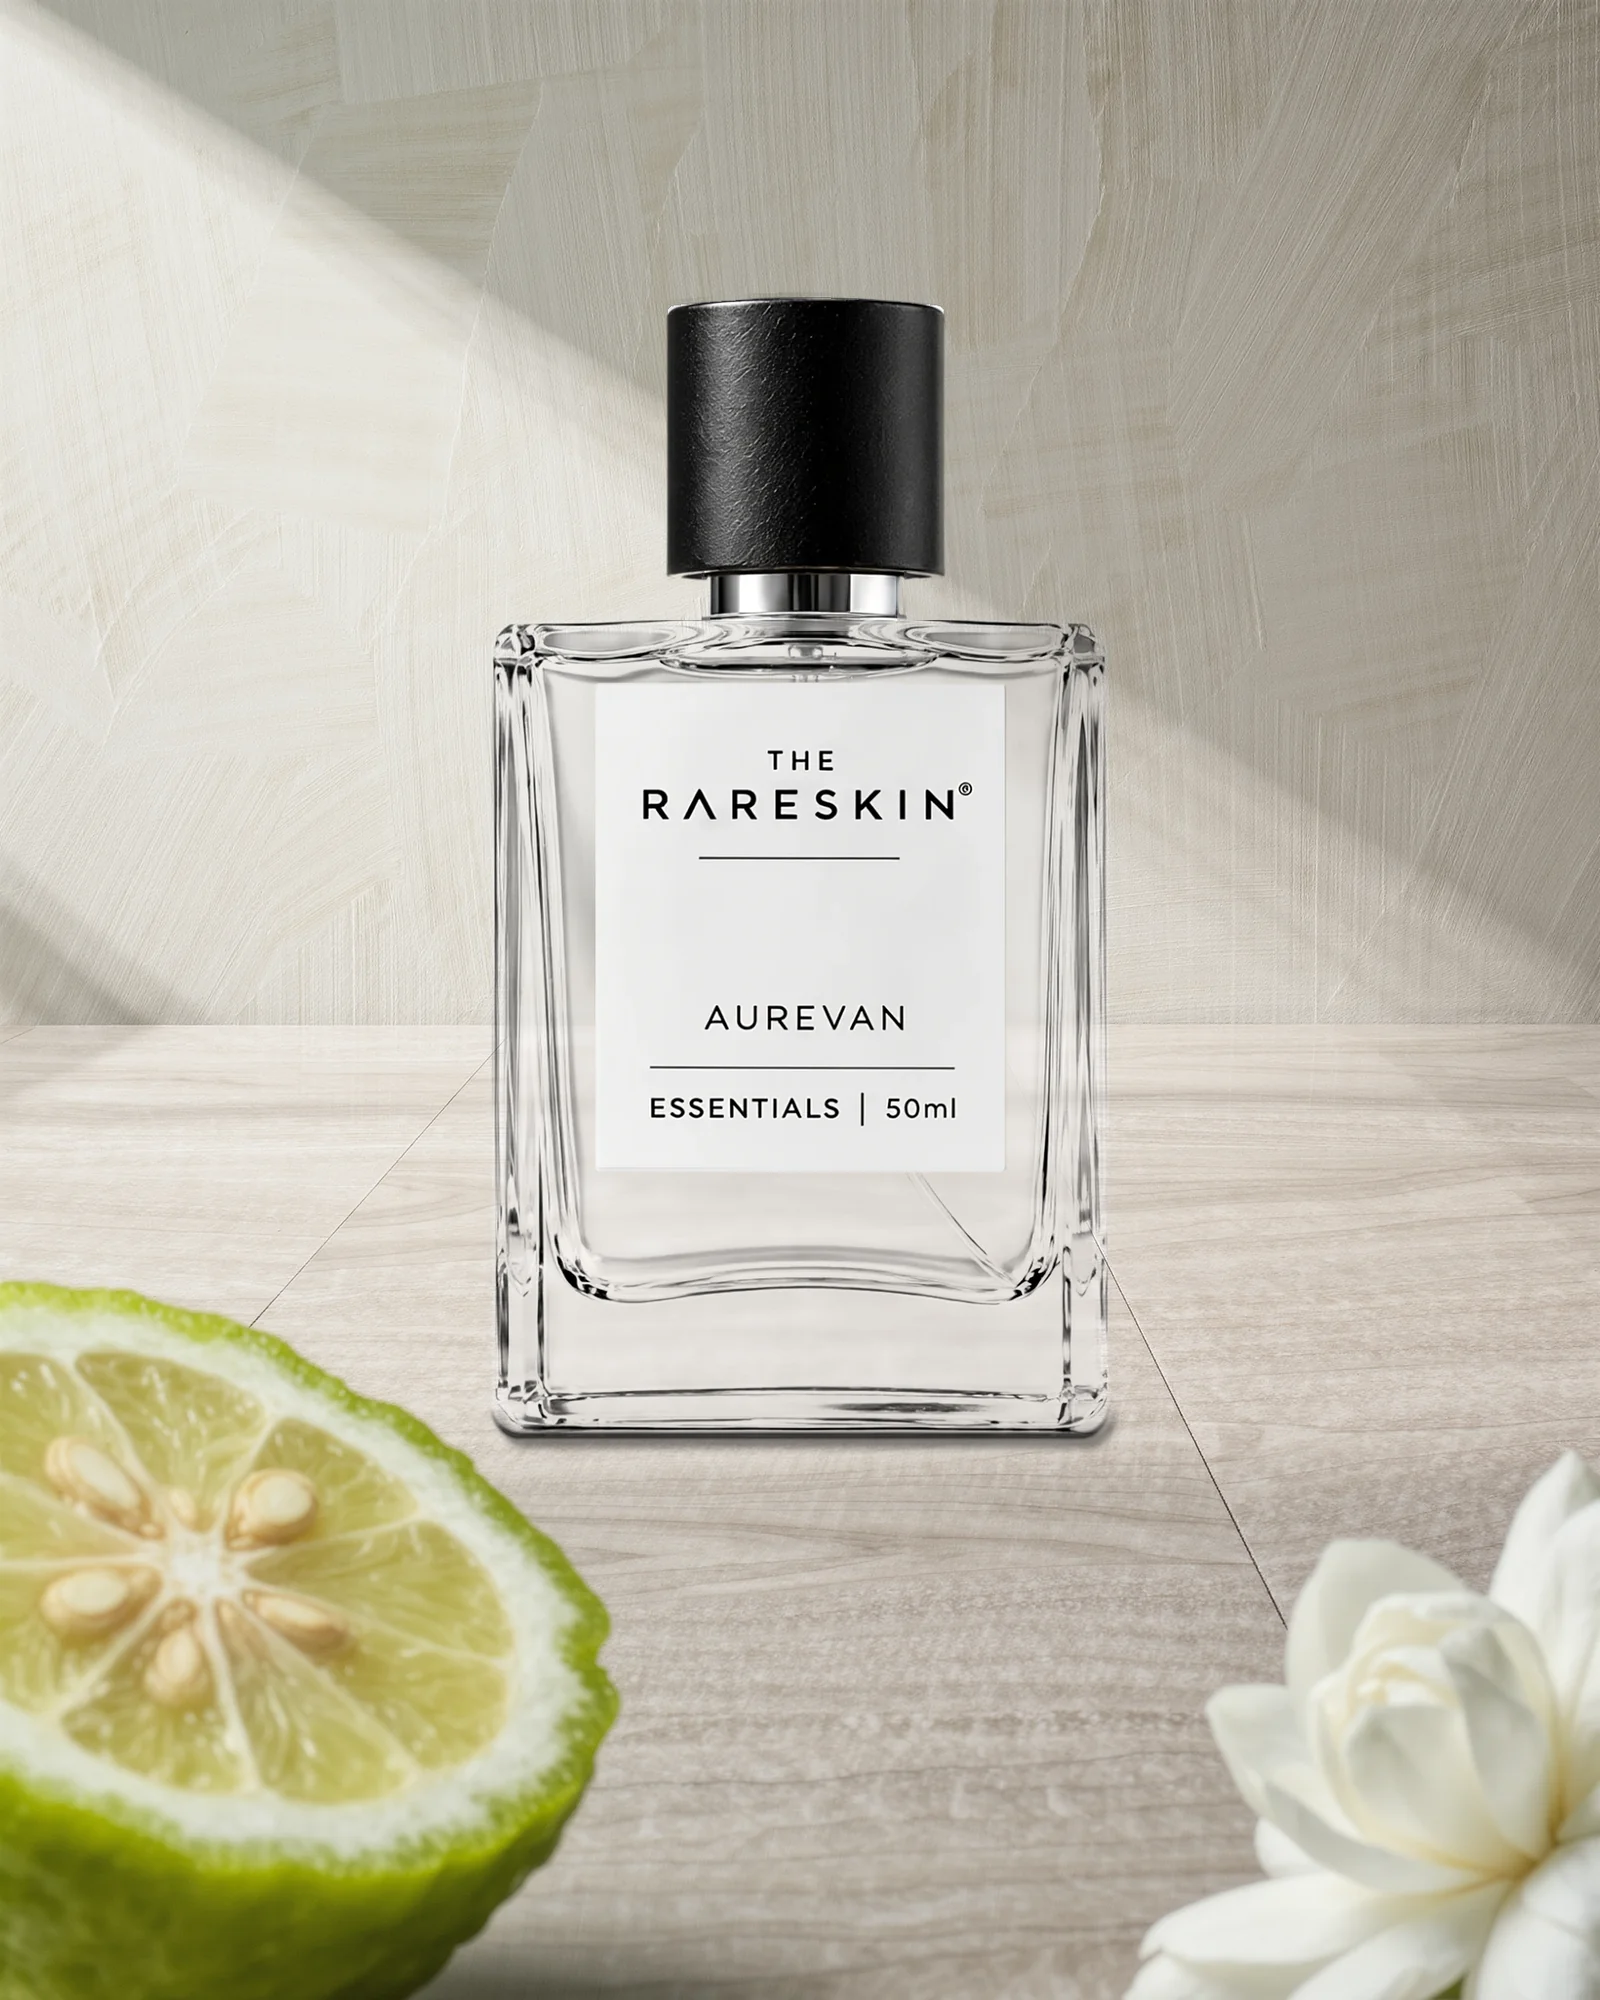
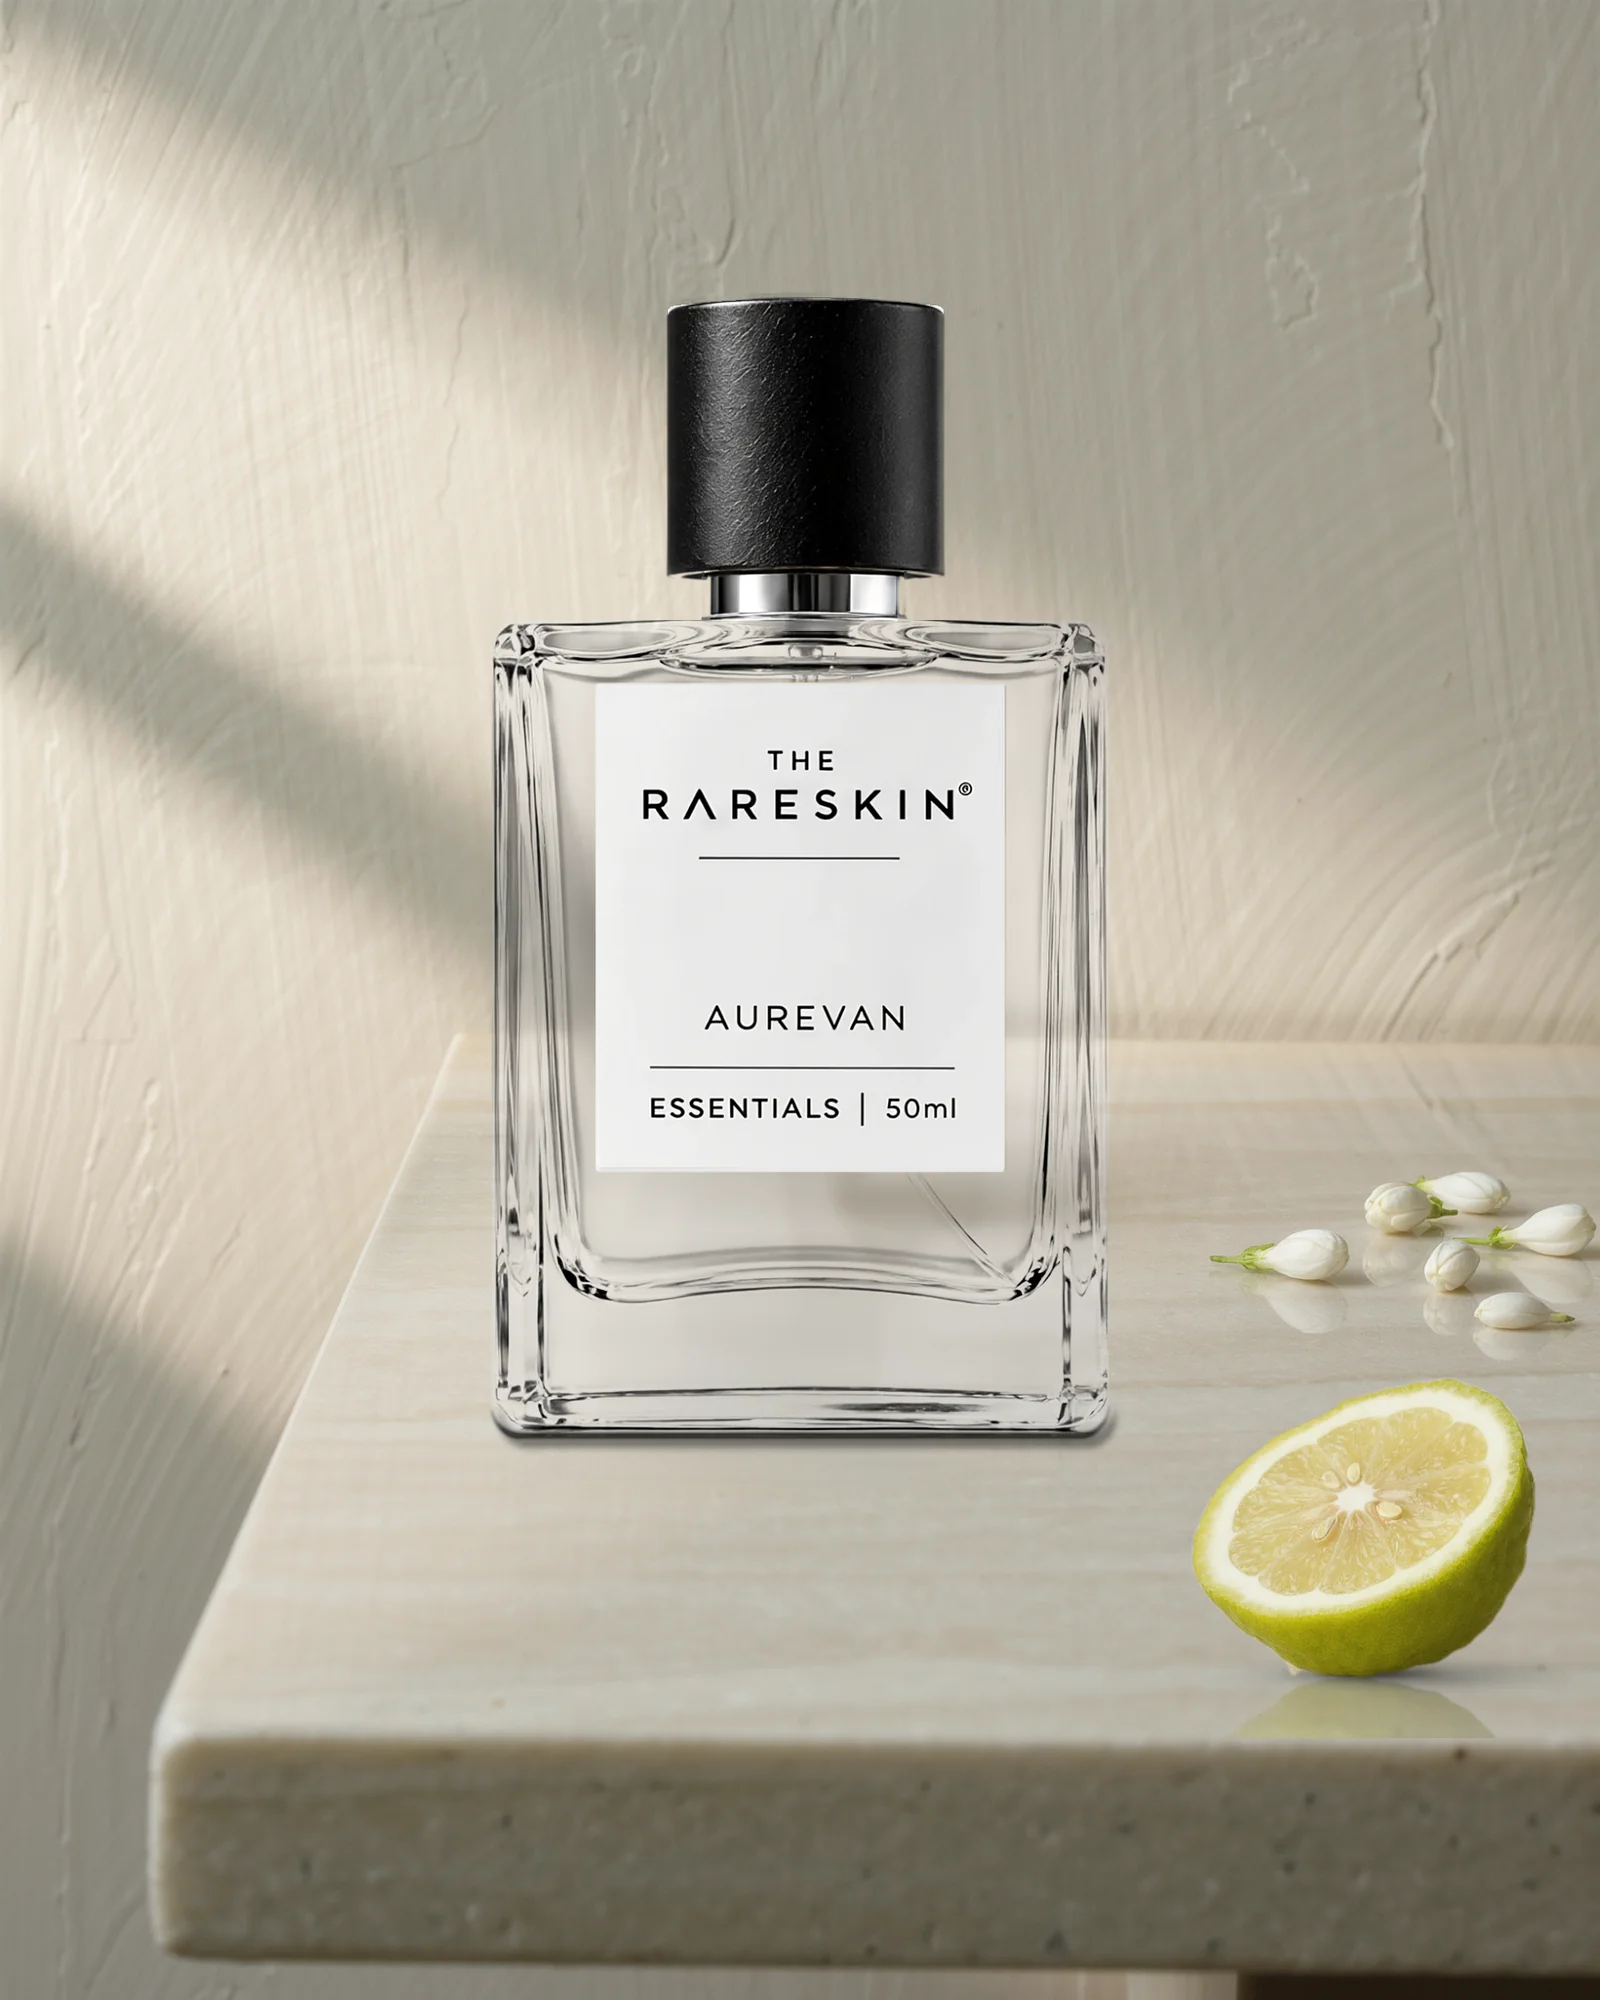
Cards: stone direction uses the limestone-table AURÉVAN; drop the floor version and the "Stone v2" entry
- aurevan-card-grounded_stone is now the table picture (bergamot front right, jasmine buds);
  the full-width-floor AURÉVAN and the grounded_stone_v2 concept / fallback are removed.
- The stone direction is labelled "Stone" in the preview bar; assetVersion bumped to 5.

diff --git a/src/config/homepage-assets.ts b/src/config/homepage-assets.ts
@@ -38,13 +38,8 @@ export const CARD_CONCEPTS = [
   },
   {
     id: "grounded_stone",
-    label: "Grounded stone",
+    label: "Stone",
     blurb: "Direct earth and stone: limestone, raw oak, basalt, the ingredients beside the base.",
-  },
-  {
-    id: "grounded_stone_v2",
-    label: "Stone v2",
-    blurb: "An alternative plate for grounded stone (limestone table, bergamot front right). Only the pictures that exist replace the grounded-stone ones.",
   },
   {
     id: "chiaroscuro_studio",
@@ -65,15 +60,6 @@ export const CARD_CONCEPTS = [
 
 export type CardConceptId = (typeof CARD_CONCEPTS)[number]["id"];
 export type PlateConceptId = Exclude<CardConceptId, "current">;
-
-/**
- * An alternative that only exists for some fragrances shows the direction it
- * belongs to on the others (so a row is never mixed with the old pedestal cards
- * just because one picture was tried on a second plate).
- */
-export const CARD_CONCEPT_FALLBACK: Partial<Record<CardConceptId, CardConceptId>> = {
-  grounded_stone_v2: "grounded_stone",
-};
 
 /** the direction the tiles show to everyone (switch to a concept once its pictures are final) */
 export const DEFAULT_CARD_CONCEPT: CardConceptId = "current";

diff --git a/src/lib/home-images.ts b/src/lib/home-images.ts
@@ -12,7 +12,6 @@ import manifestJson from "../../public/images/assets-manifest.json";
  */
 
 import {
-  CARD_CONCEPT_FALLBACK,
   cardAssetId,
   type CardAssetId,
   type CardConceptId,
@@ -102,8 +101,6 @@ export function resolveCardAsset(slug: CardSlug, concept: CardConceptId): HomeAs
   // the chosen direction, then the direction it falls back to (an alternative plate that
   // exists for some fragrances only), then the current pedestal picture
   const chain: CardConceptId[] = [concept];
-  const fallback = CARD_CONCEPT_FALLBACK[concept];
-  if (fallback) chain.push(fallback);
   if (!chain.includes("current")) chain.push("current");
   for (const c of chain) {
     const a = findHomeAsset(cardAssetId(c, slug));
